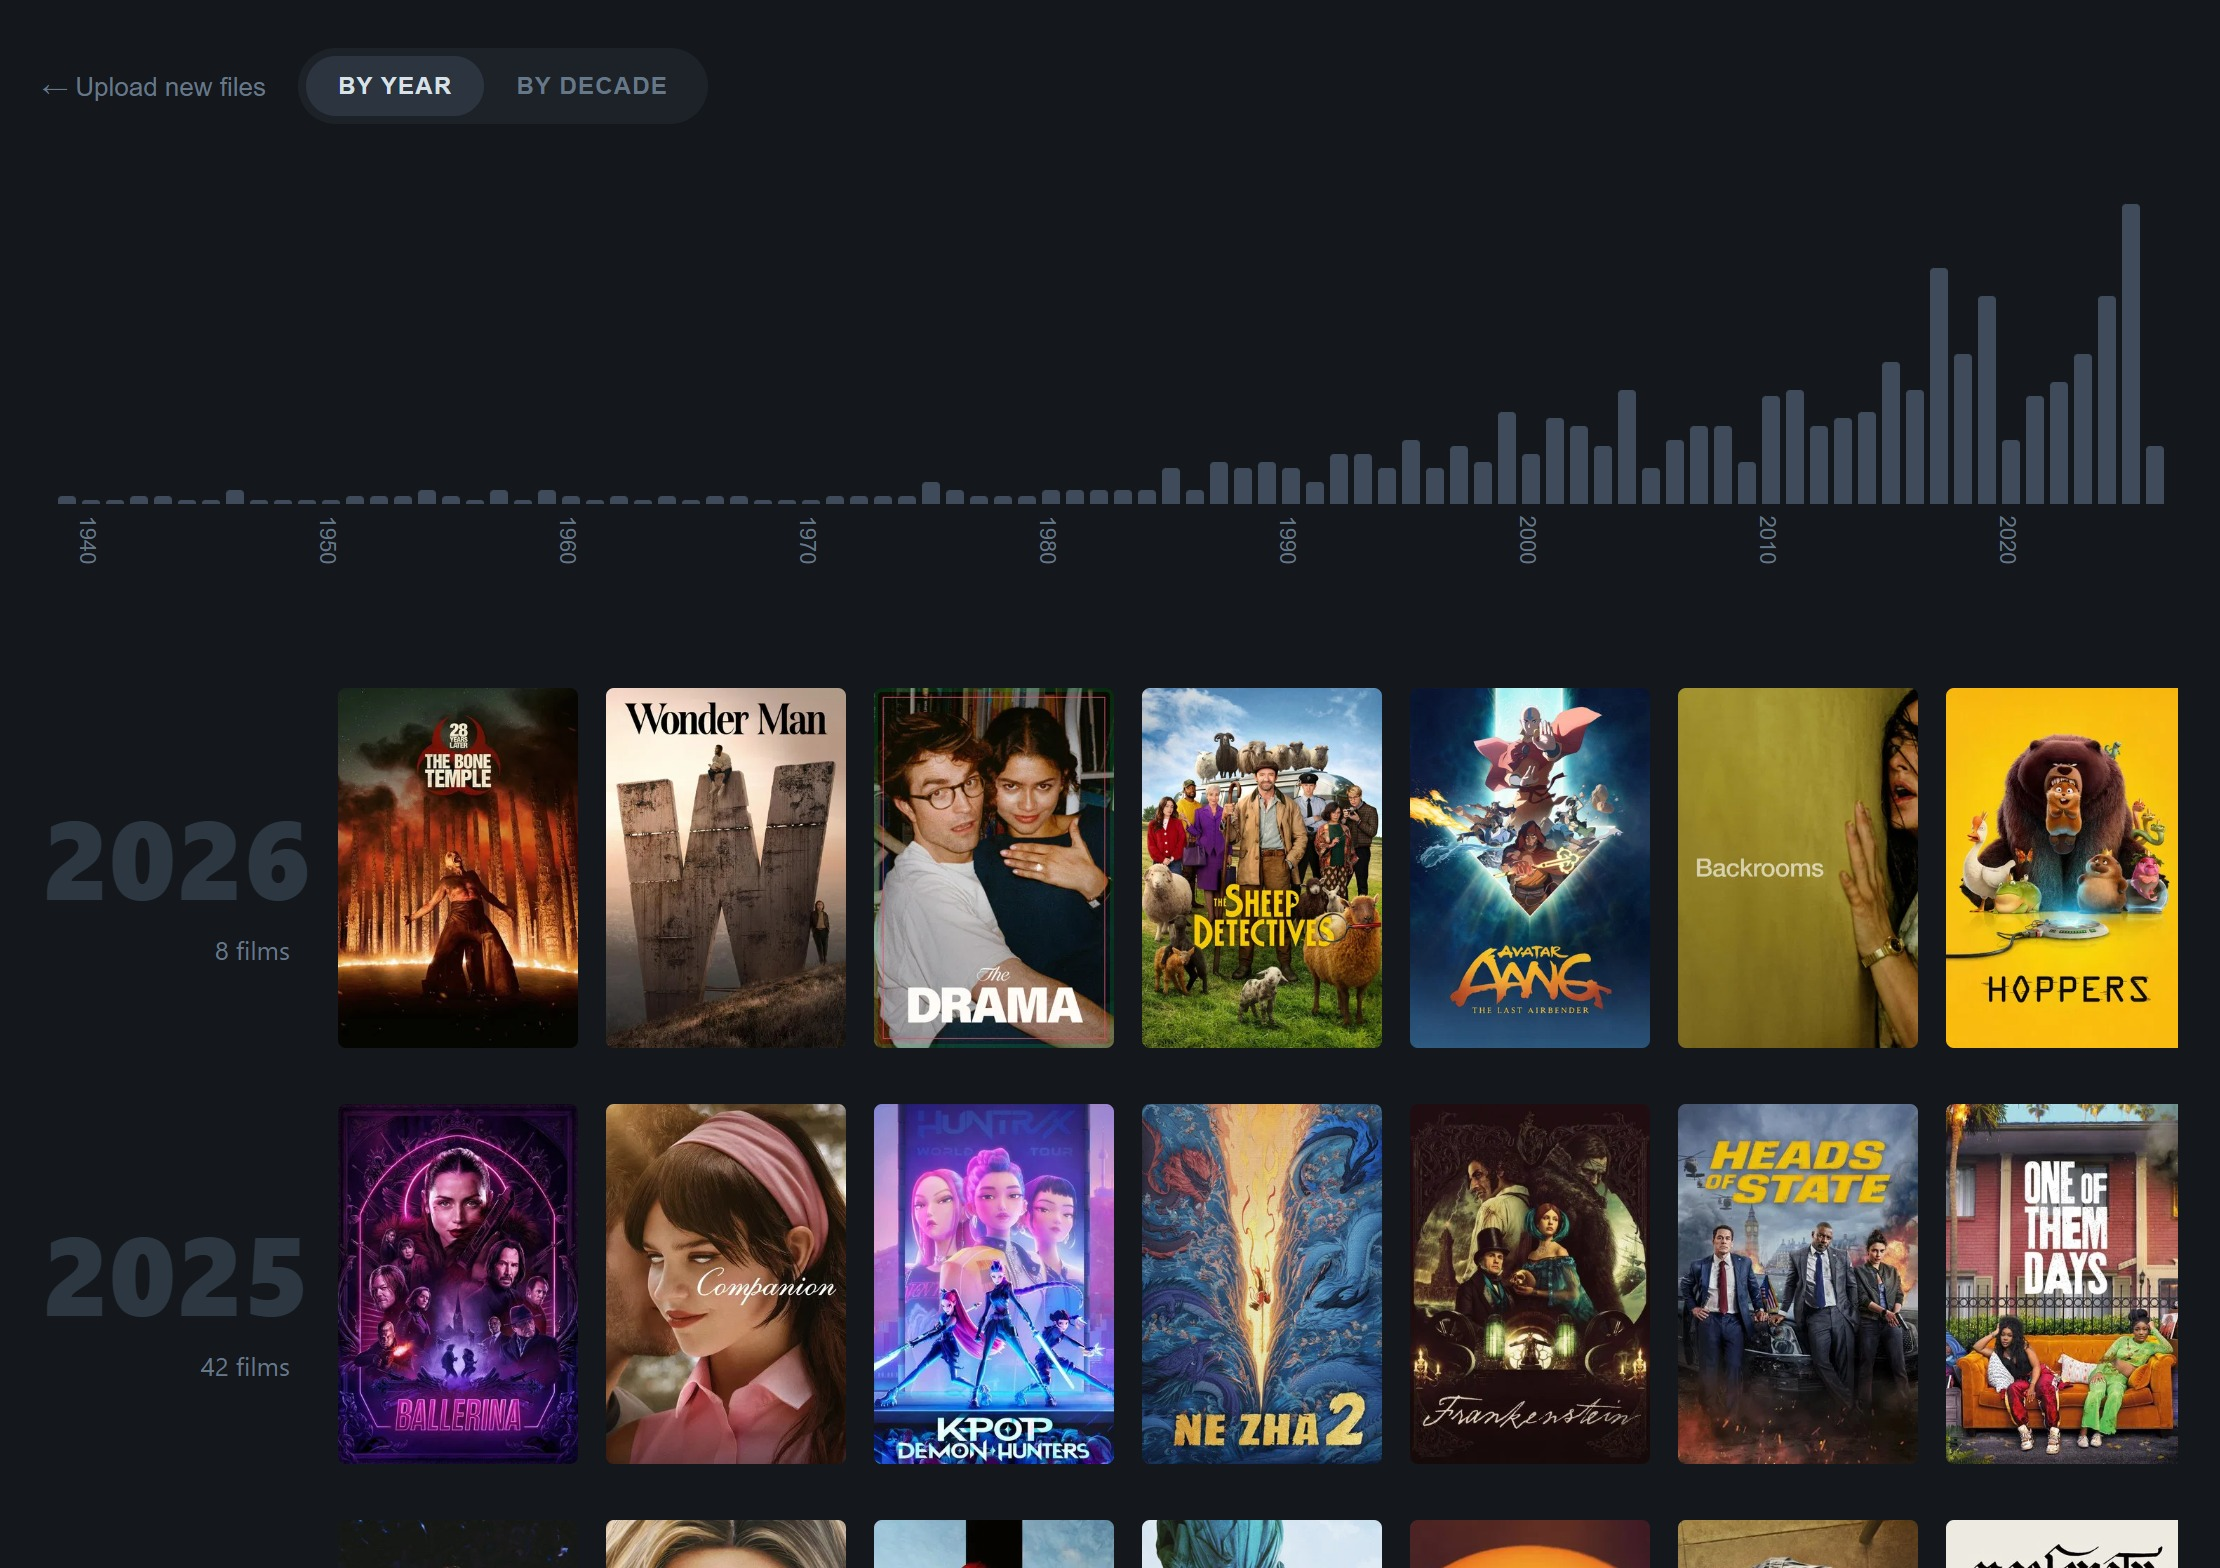
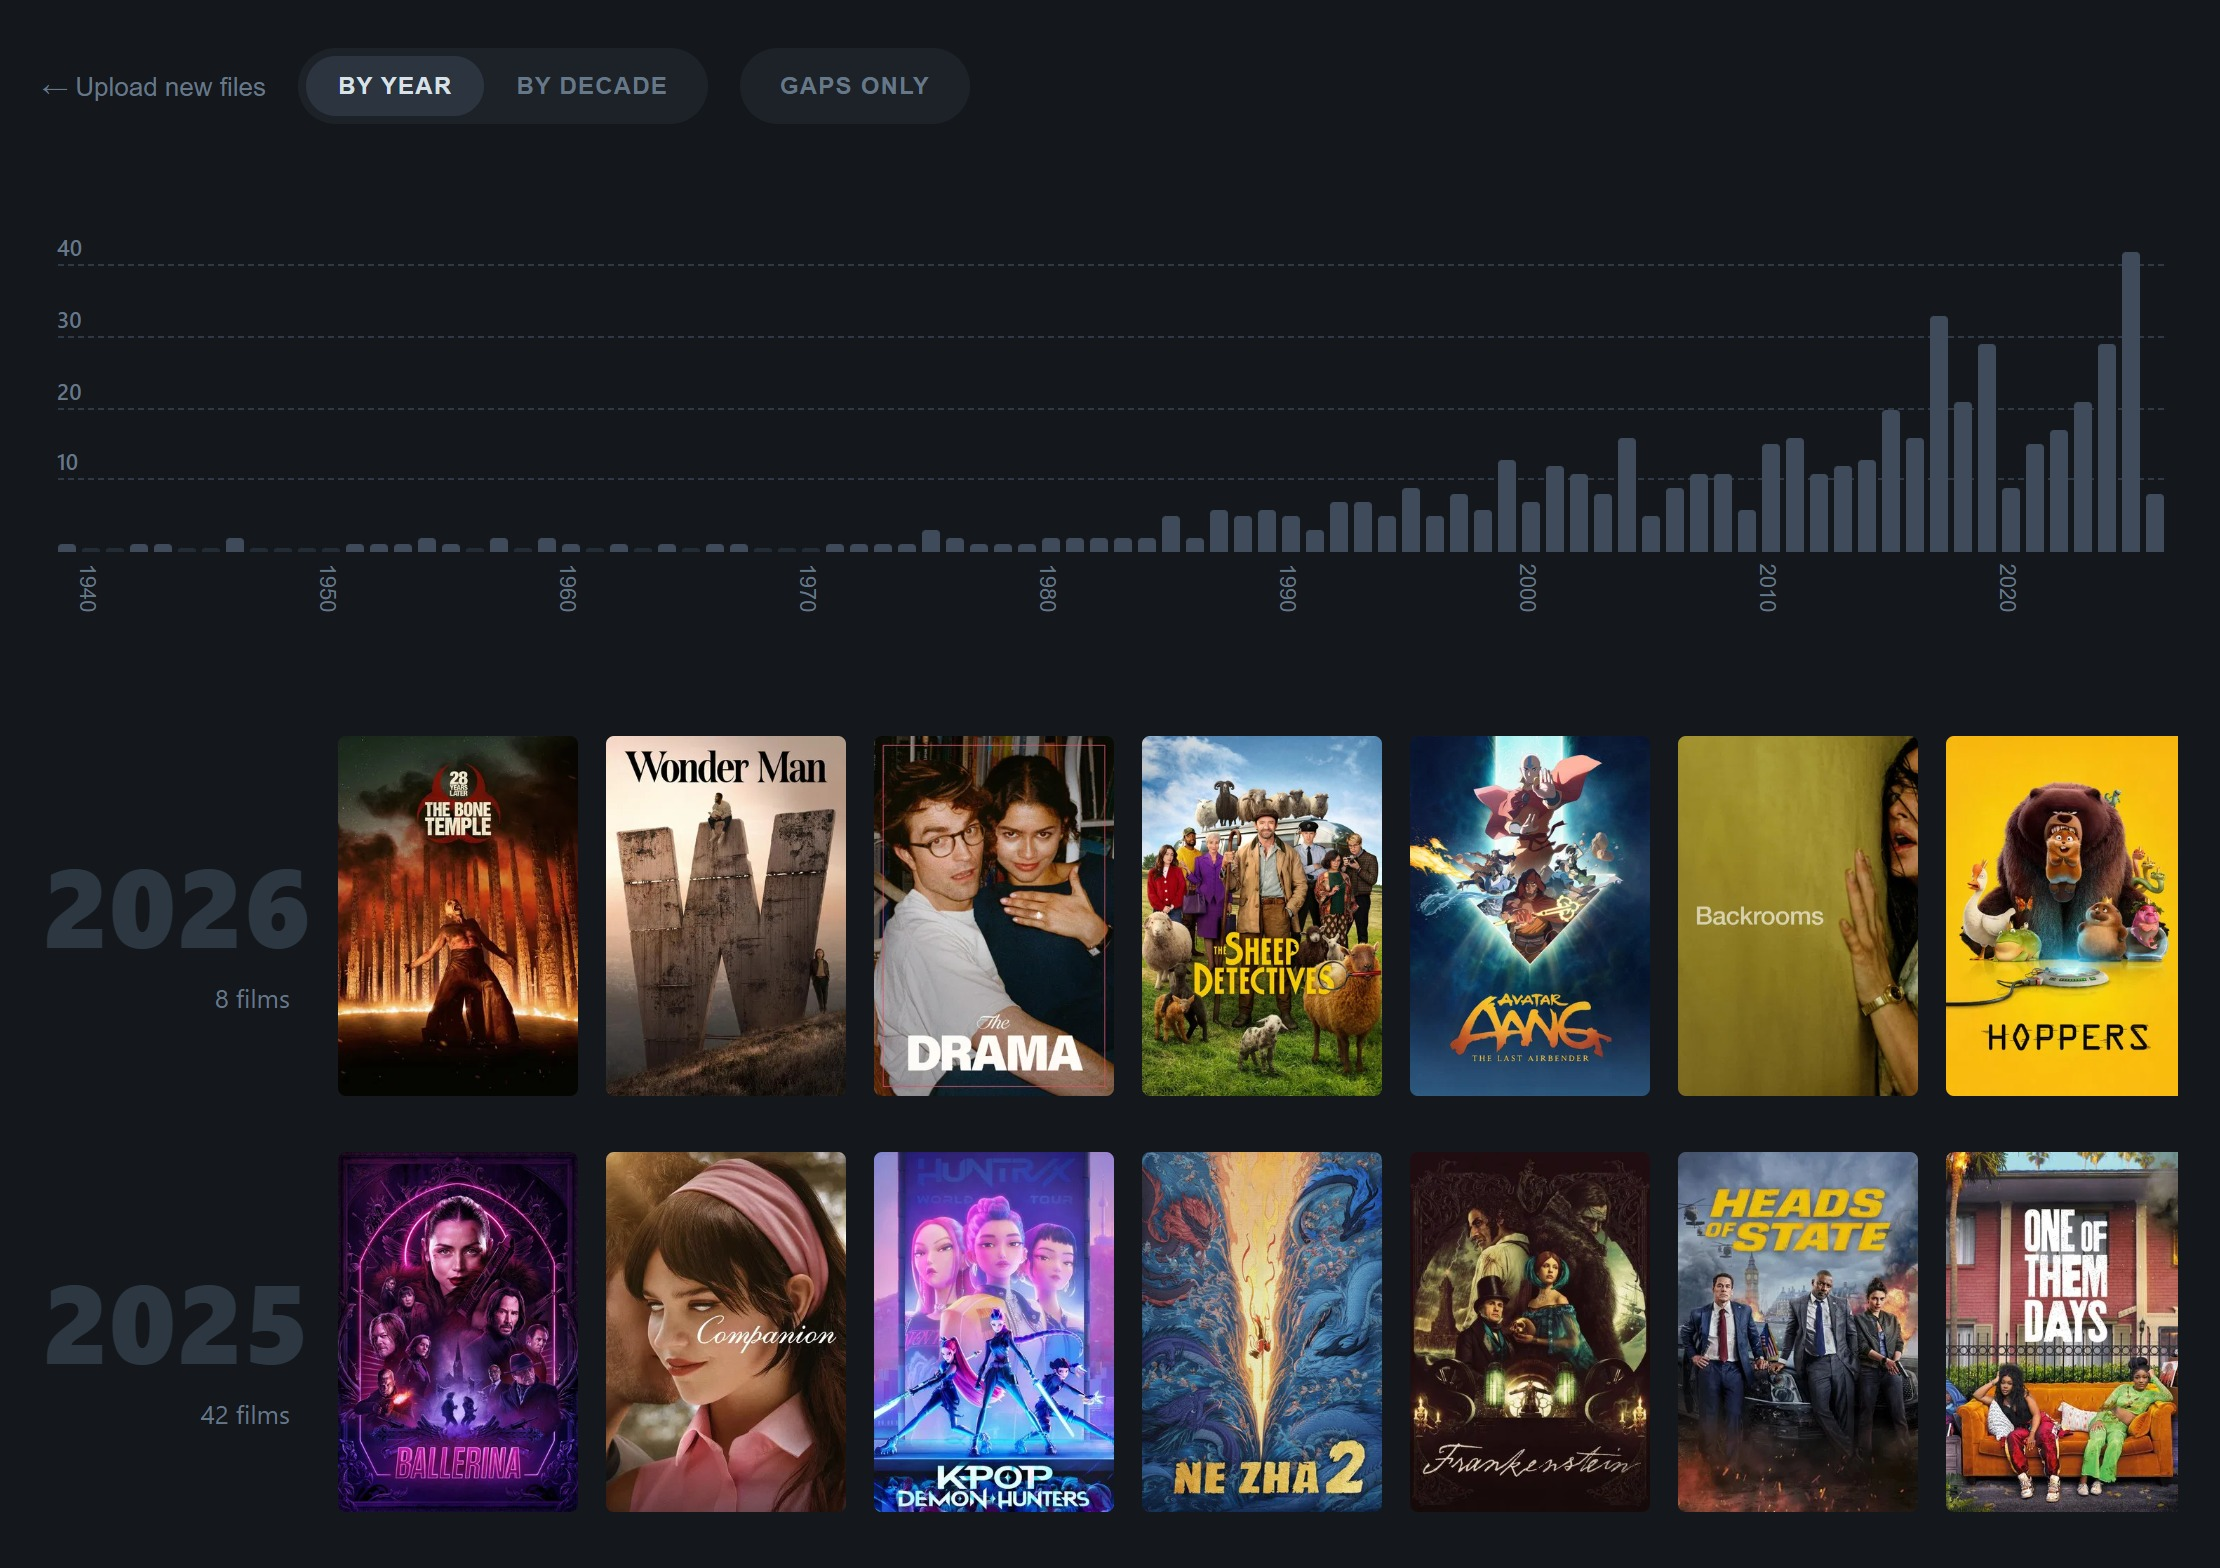
docs: refresh README and screenshots, add export guide; reword upload screen

diff --git a/src/components/UploadScreen.tsx b/src/components/UploadScreen.tsx
@@ -19,8 +19,10 @@ export function UploadScreen({ onSubmit }: Props) {
       <div className="upload-card">
         <h1>Top of the Year</h1>
         <p className="upload-sub">
-          Upload your Letterboxd exports to browse every film you've watched,
-          grouped by year or decade and sorted by your rating within each group.
+          Upload your Letterboxd exports to see which decade you watched the
+          most, find your highest-rated films from any year, and spot the gaps
+          in the history of your watches. Add your watchlist to fill those gaps with films to
+          watch next.
         </p>
 
         <div className="upload-fields">
@@ -82,7 +84,7 @@ function FilePicker({
         }}
       />
       <span className="file-label">{label}</span>
-      <span className="file-name">{file ? file.name : optional ? 'Optional: fills empty years' : 'Choose file…'}</span>
+      <span className="file-name">{file ? file.name : optional ? 'Optional: fills gap years' : 'Choose file…'}</span>
     </label>
   )
 }

diff --git a/README.md b/README.md
@@ -28,7 +28,8 @@
 
 - **Year or decade view.** Every film you've logged on Letterboxd goes into a row for its release year or decade, newest first. Years with nothing in them between your oldest and newest film still show up, so gaps in your history are visible.
 - **Your favourites first.** Each row is sorted by your rating, highest first. Unrated films go last, and ties are broken alphabetically.
-- **Interactive histogram.** A bar chart of films per year or decade sits at the top. Hover a bar to see the count, click it to jump to that row.
+- **Interactive histogram.** A bar chart of films per year or decade sits at the top, with dashed milestone lines (every 10 films by year; 10, 50, 100, ... by decade) so bar heights are easy to read. Hover a year bar for a tooltip, or a decade bar to see its count; click either to jump to that row.
+- **Watchlist fills the gaps.** Add your `watchlist.csv` and years in which you haven't watched anything show films from your watchlist as dimmed "ghost" posters. A **Gaps only** toggle (year view) hides every year you've already covered, so it doubles as a "what should I watch next" list.
 - **Rich tooltips.** Hover a poster to see its title, year and star rating. Hover a year to see how you rated that year's films.
 - **Real posters.** Artwork is fetched from TMDB and fills in progressively as results arrive. Every lookup is cached, so later visits are instant.
 - **Remembers your list.** Your library stays in the browser between visits, so you upload once.
@@ -38,21 +39,27 @@
 
 ### 1. Export your data from Letterboxd
 
-On Letterboxd, go to **Settings → Data → Export your data**. You'll get a `.zip`; unzip it and find `watched.csv` and `ratings.csv`. Optionally add `watchlist.csv` too: years with no watched films then list your watchlist films from that year as dimmed "ghost" posters, and a **Gaps only** toggle (year view) hides every year you've already covered.
+1. Sign in to Letterboxd and open **[Settings → Data](https://letterboxd.com/settings/data/)**.
+2. Click **Export your data**. Letterboxd prepares a `.zip` and downloads it.
+3. Unzip it. You need `watched.csv` and `ratings.csv`. `watchlist.csv` is optional but recommended (see [Features](#-features)).
+
+<p align="center">
+  <img src="docs/screenshots/letterboxd-export.jpg" alt="Letterboxd's Settings → Data page with the Export your data button" width="520" />
+</p>
 
 > Don't have a Letterboxd account handy? Use the sample exports in [`example-data/`](example-data/).
 
-### 2. Upload both files
+### 2. Upload your files
 
-Open the [app](https://letterboxd-top-of-the-year.vercel.app/), pick `watched.csv` and `ratings.csv`, and hit **Visualize my data**.
+Open the [app](https://letterboxd-top-of-the-year.vercel.app/), pick `watched.csv` and `ratings.csv` (and `watchlist.csv` if you have it), and hit **Visualize my data**.
 
 <p align="center">
-  <img src="docs/screenshots/upload.jpg" alt="Upload screen with watched.csv and ratings.csv selected" width="560" />
+  <img src="docs/screenshots/upload.jpg" alt="Upload screen with watched.csv, ratings.csv and watchlist.csv selected" width="560" />
 </p>
 
 ### 3. Explore
 
-Scroll through the rows, swipe each one sideways, and switch between **By Year** and **By Decade** at the top.
+Scroll through the rows, swipe each one sideways, and switch between **By Year** and **By Decade** at the top. **Gaps only** (year view) narrows the wall to the years you haven't watched anything from.
 
 <table>
   <tr>
@@ -72,7 +79,19 @@ Scroll through the rows, swipe each one sideways, and switch between **By Year**
 <p align="center">
   <img src="docs/screenshots/histogram-tooltip.jpg" alt="Hovering a histogram bar shows the year and how many films it has" width="900" />
   <br />
-  <sub><b>Histogram</b>: hover a bar for the year and its film count; click it to scroll to that row.</sub>
+  <sub><b>Year histogram</b>: hover a bar for the year and its film count; click it to scroll to that row.</sub>
+</p>
+
+<p align="center">
+  <img src="docs/screenshots/decade-hover.jpg" alt="In decade view, hovering a bar shows its film count above it" width="900" />
+  <br />
+  <sub><b>Decade histogram</b>: milestone lines at 10, 50, 100, ... and the count revealed above the hovered bar.</sub>
+</p>
+
+<p align="center">
+  <img src="docs/screenshots/gaps-only.jpg" alt="Gaps only view: years with no watched films show watchlist films as dimmed ghost posters" width="900" />
+  <br />
+  <sub><b>Gaps only</b>: years with nothing watched, filled with dimmed posters from your watchlist.</sub>
 </p>
 
 <table>
@@ -97,19 +116,19 @@ Scroll through the rows, swipe each one sideways, and switch between **By Year**
 ## 🛠 How it works
 
 ```text
-watched.csv ─┐
-             ├─▶ csv.ts ──▶ storage.ts ──▶ group.ts ──▶ React UI
-ratings.csv ─┘   parse &     localStorage   bucket by       │
-                 merge by    cache          year / decade,  │ title + year
-                 Letterboxd                 sort by rating  ▼
-                 URI                                     tmdb.ts ──▶ /api/tmdb ──▶ TMDB
-                                                         (cached,     (serverless proxy,
-                                                          8 at once)   holds the API key)
+watched.csv   ─┐
+ratings.csv   ─┼─▶ csv.ts ──▶ storage.ts ──▶ group.ts ──▶ React UI
+watchlist.csv ─┘   parse &     localStorage   bucket by       │
+(optional)         merge by    cache          year / decade,  │ title + year
+                   Letterboxd                 sort by rating  ▼
+                   URI                                     tmdb.ts ──▶ /api/tmdb ──▶ TMDB
+                                                           (cached,     (serverless proxy,
+                                                            8 at once)   holds the API key)
 ```
 
-1. **Parse & merge** (`src/lib/csv.ts`): both exports are parsed with PapaParse and joined on the `Letterboxd URI`. `watched.csv` is the master list; `ratings.csv` adds the scores.
+1. **Parse & merge** (`src/lib/csv.ts`): both exports are parsed with PapaParse and joined on the `Letterboxd URI`. `watched.csv` is the master list; `ratings.csv` adds the scores. The optional `watchlist.csv` is parsed separately, minus films you've already watched.
 2. **Persist** (`src/lib/storage.ts`): the merged list is saved to `localStorage`. Posters are not stored with it; they're re-resolved from the poster cache on load.
-3. **Group** (`src/lib/group.ts`): films are bucketed by year or decade, empty years in between are filled in, and each group is sorted by rating.
+3. **Group** (`src/lib/group.ts`): films are bucketed by year or decade, empty years in between are filled in, and each group is sorted by rating. Watchlist films are attached per group but never widen the range, so a stray old entry can't add dozens of empty rows.
 4. **Posters** (`src/lib/tmdb.ts`): looked up through the `/api/tmdb` proxy with bounded concurrency, filling cards in as they resolve. Every result, misses included, is cached.
 5. **Proxy** (`api/tmdb.js`): a Vercel Function that signs requests with a server-side `TMDB_API_KEY`, so the key is never shipped to the browser. It only allows TMDB's movie and TV search endpoints.
 
